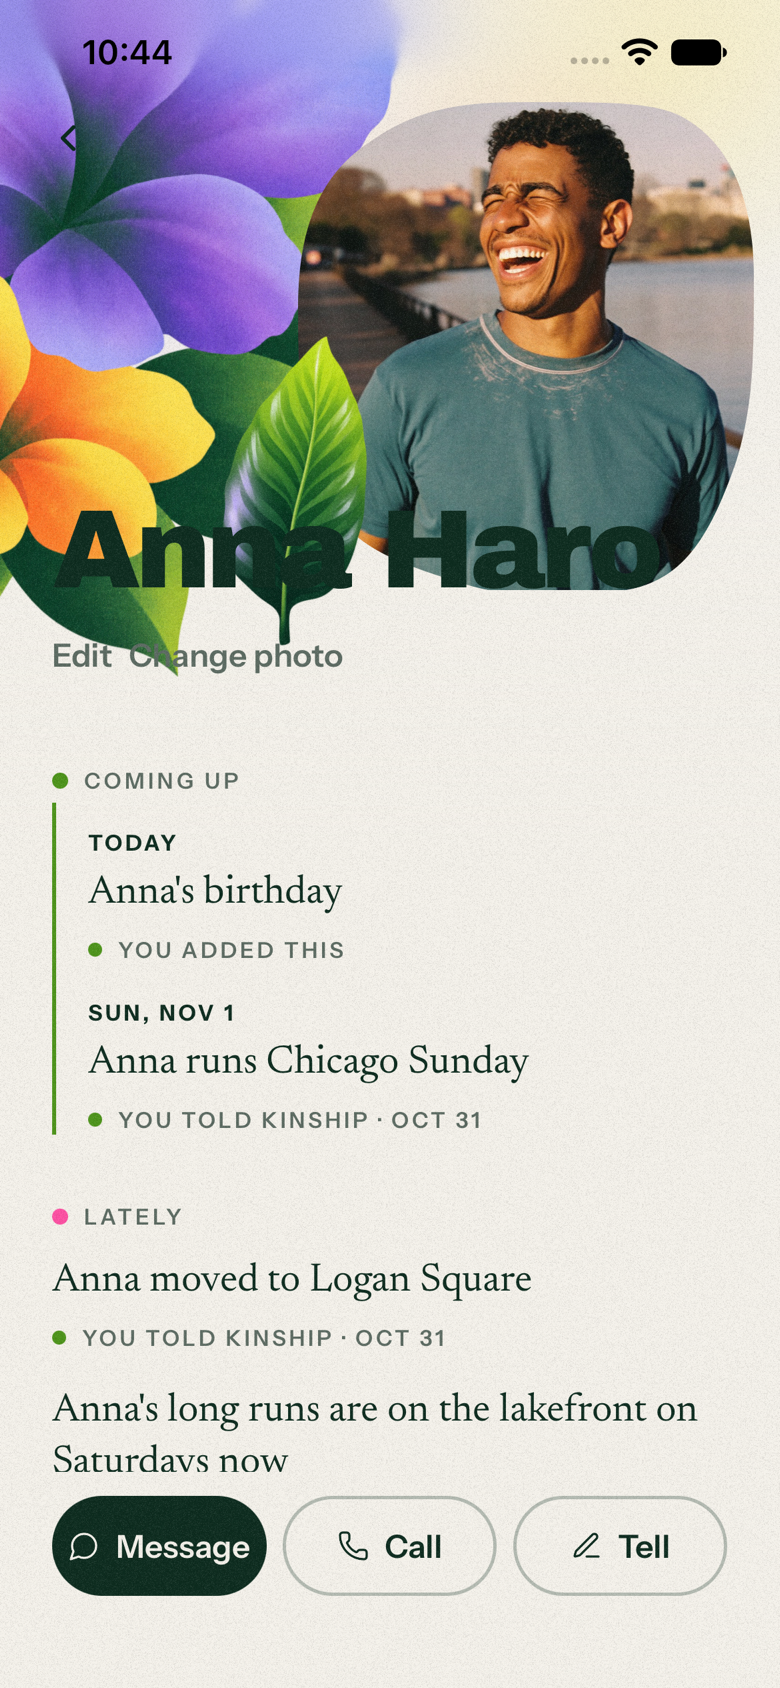
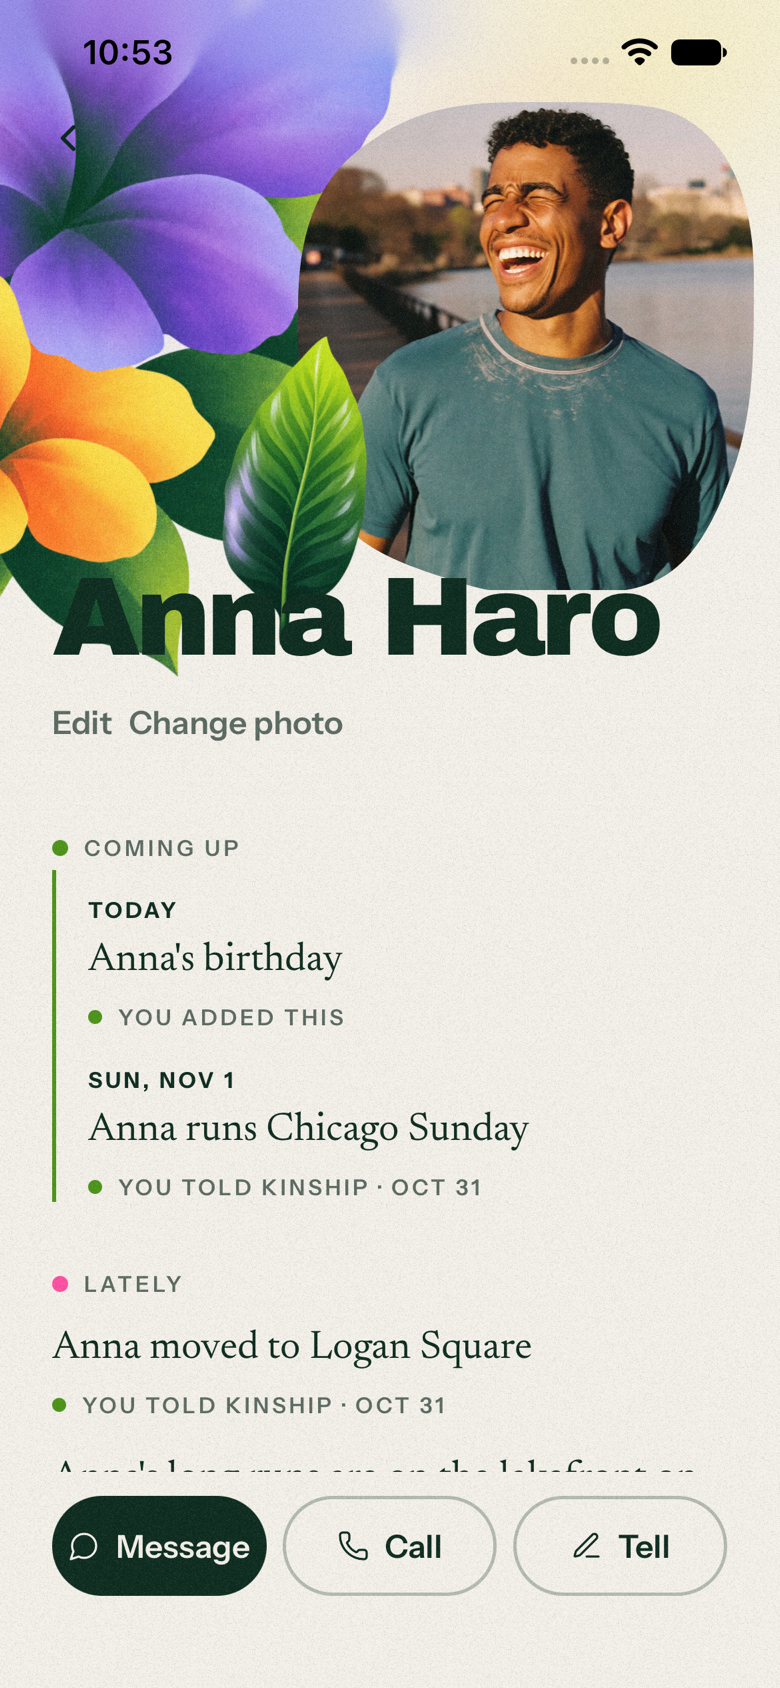
WS-2 redesign: the context block never repeats the moment's own memory; harness assertions follow the hand-off sheet
The human-context block under Today's moment showed the moment's own memory
again for a promise or thread (k20's from-Today cases then found two "call
John" lines); it now lists only other things told about the person. The k28
and showing-up black-box suites expected the bulleted mention lines and read
the whole screen; the lines sit behind a rule now, and the assertions read
the hand-off sheet's own region (Today's context block behind the sheet may
say the same lines). RSN-07's "no wedding Moment" check reads the headers,
since the wedding may appear as context under the thread's Moment.

diff --git a/e2e/blackbox/k28.blackbox.tsx b/e2e/blackbox/k28.blackbox.tsx
@@ -103,7 +103,8 @@ describe("K28 + K26: Susan is getting married to Pedro this fall (the founder's 
     // 3–6. Susan's page → Message: the sheet offers the wedding, in the user's words, with one clear suggestion; Messages opens.
     const first = await messageFromPage(a, susan.id);
     expect(first.sheet).toContain("You could mention");
-    expect(first.sheet).toContain(`•  ${wedding}`);
+    // Electric Garden (FD-30b): the mention lines sit behind a rule, with no bullet.
+    expect(first.sheet).toContain(wedding);
     expect(first.sheet).toContain(MENTION_OPENERS.wedding);
     expect(first.sheet.some((t) => /next week|Oct \d/u.test(t) && /married/u.test(t))).toBe(false); // never given a day it never had
     expect(first.sheet).toContain("When you come back: “Did you reach Susan?”");
@@ -233,8 +234,11 @@ describe("K26: Fluffy before ice skating, about the vet appointment (the founder
     await tap(a.r, "Ask how it went");
     await until(a.r, (s) => s.includes("You could mention"), "the hand-off sheet", 5000);
     const sheet = texts(a.r);
-    const bullets = sheet.filter((t) => t.startsWith("•  "));
-    expect(bullets).toEqual(["•  Chris has a dog named Fluffy", "•  Chris is training for a half marathon"]);
-    expect(sheet.some((t) => /ice skating/u.test(t))).toBe(false);
+    // Electric Garden (FD-30b): the mention lines sit behind a rule, with no bullet; both are on the sheet, in order.
+    // Today's own context block behind the sheet may say the same lines: only the sheet's region, from its label, counts.
+    const onSheet = sheet.slice(sheet.indexOf("You could mention"));
+    const mentions = onSheet.filter((t) => t === "Chris has a dog named Fluffy" || t === "Chris is training for a half marathon");
+    expect(mentions).toEqual(["Chris has a dog named Fluffy", "Chris is training for a half marathon"]);
+    expect(onSheet.some((t) => /ice skating/u.test(t))).toBe(false);
   }, 120000);
 });

diff --git a/e2e/blackbox/showingup.blackbox.tsx b/e2e/blackbox/showingup.blackbox.tsx
@@ -203,14 +203,18 @@ describe("RSN-07 and SUA-1 through the real screens: an open thread's one check-
     const today = texts(a.r);
     expect(today).toContain("Felix is considering moving to Denver");
     expect(canTap(a.r, "Ask Felix")).toBe(true);
-    expect(today.some((t) => /getting married/u.test(t))).toBe(false); // the wedding, ten days off, is no Moment
+    // The wedding, ten days off, is no Moment: not the statement, not a week line. (Since FD-30b it may appear
+    // as human context under the thread's Moment, "What you've told Kinship": a line, never a second action.)
+    const headers = a.r.root.findAll((n) => n.props.accessibilityRole === "header" && typeof n.type === "string").map((n) => [n.props.children].flat().join(""));
+    expect(headers.some((t) => /getting married/u.test(t))).toBe(false);
 
     // 2. Ask Felix: the sheet mentions the wedding (K26) with its opener, and beneath the channels the one SUA-1 line.
     await tap(a.r, "Ask Felix");
     await until(a.r, () => canTap(a.r, "Open Messages"), "the hand-off sheet", 5000);
     const sheet = texts(a.r);
     expect(sheet).toContain("Ask Felix");
-    expect(sheet).toContain("•  Felix is getting married next month");
+    // Electric Garden (FD-30b): the mention lines sit behind a rule, with no bullet; the sheet's own region starts at its label.
+    expect(sheet.slice(sheet.indexOf("You could mention"))).toContain("Felix is getting married next month");
     expect(sheet).toContain(MENTION_OPENERS.wedding);
     expect(sheet).toContain(SUGGESTION_COPY.plan);
     expect(sheet.indexOf(SUGGESTION_COPY.plan)).toBeGreaterThan(sheet.indexOf("Open Messages"));

diff --git a/src/features/today/TodayView.tsx b/src/features/today/TodayView.tsx
@@ -205,7 +205,8 @@ export function TodayView(props: TodayViewProps) {
           context={moment.context}
           hope={moment.hope ?? null}
           provenance={moment.provenance}
-          context2={moment.mention.filter((m) => m !== moment.statement && m !== moment.context && m !== (moment.hope ?? "")).slice(0, 2)}
+          // The human context: other things told about them, never the moment's own memory said again.
+          context2={moment.mention.filter((m) => m !== moment.statement && m !== moment.context && m !== (moment.hope ?? "") && m !== (moment.memory ?? "")).slice(0, 2)}
           photoUri={photo}
           onOpen={props.onOpenMoment}
           onProvenance={props.onProvenance}

diff --git a/docs/product/electric-garden-simulator-evidence.md b/docs/product/electric-garden-simulator-evidence.md
@@ -46,6 +46,8 @@ wireframe pairs** (hierarchy with colour, art and type stripped): `wireframes/`.
 | People | A masthead (People, Add, Settings); two explicit doors under the field, Find someone and Ask your memory (Ask: a butter-dotted eyebrow, the question's placeholder, three example questions); a lettered index with the letter large down the left margin and rows set apart by space | **PASS** (`12-people.png`, `12b-people-ask.png`, `12c-people-ask-answer.png`: "What is Ben into?" keeps Ben and shows WS-6's "In your memory" under him), dark (`23-dark-people.png`), largest text (`26-ax-people.png`). One defect fixed from this pass: the title clipped at the largest size (849ccd5) | `12-people.png`, `12b-people-ask.png` | `before/12-people.png` |
 | Tell / review / hand-off | Hand-off: a quiet wash and leaf bleeding from the sheet's top, the heading at title scale, "You could mention" as the user's lines behind a lavender rule, one primary channel and the others as small choices beside each other, the suggestion line; review: a lime-dotted eyebrow, kept lines as a ledger behind the lime rule, the question behind a butter rule, Done full width; the Kept card as one raised surface | **PASS** hand-off (`11-handoff.png`: Open Messages primary; Call · FaceTime · Email; the return line); the Tell field and the Kept card (`15-tell.png`, `17-kept.png`); **NOT SEEN** the review sheet with kept lines: understanding on the local stack failed for every test note on this pass ("Couldn't understand this yet"), a gateway / stub matter, not the app. UNIT covers the review sheet's order and actions (ReviewSheet.test, optionA.test) | `11-handoff.png`, `15-tell.png`, `17-kept.png` | `before/11-handoff.png`, `before/16-review.png` |
 
+Black-box (local stack, after the integration merge): `k20` from-Today (16 cases), `k28` and `showingup` pass with the context block never repeating the moment's own memory and the harness's two assertions narrowed to the hand-off sheet's region (the mention lines sit behind a rule now, with no bullet; Today's context block behind the sheet may say the same lines).
+
 Defects found on this pass and fixed (849ccd5): the sheets' bleeds were not clipped, so the bloom crossed into the
 ledger; the People title clipped at accessibility sizes; the person page's name sat across the photo. Rebuilt and
 re-checked after the fixes: Moment Detail (clipped bleed), People at the largest size, the person page with a photo.
